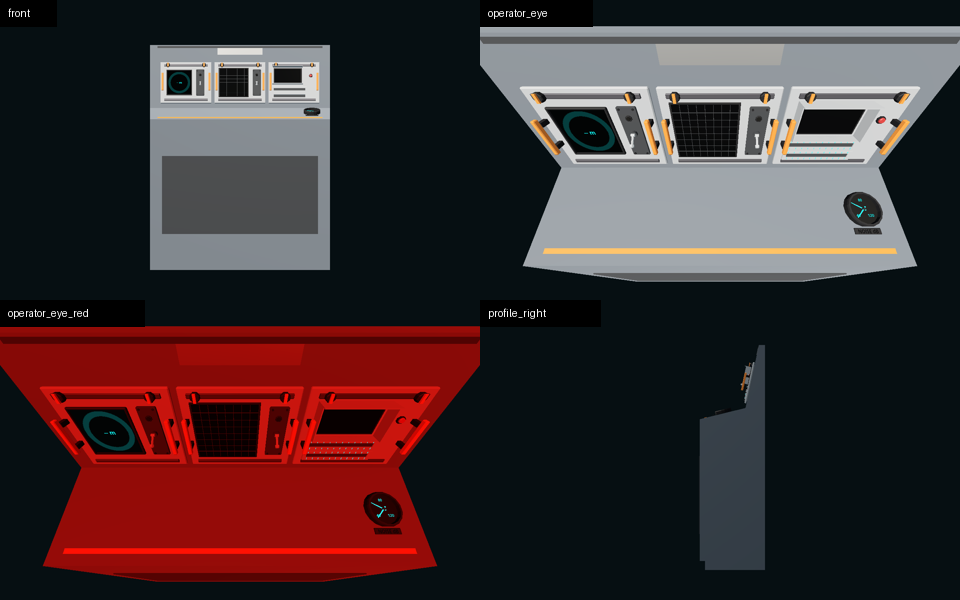
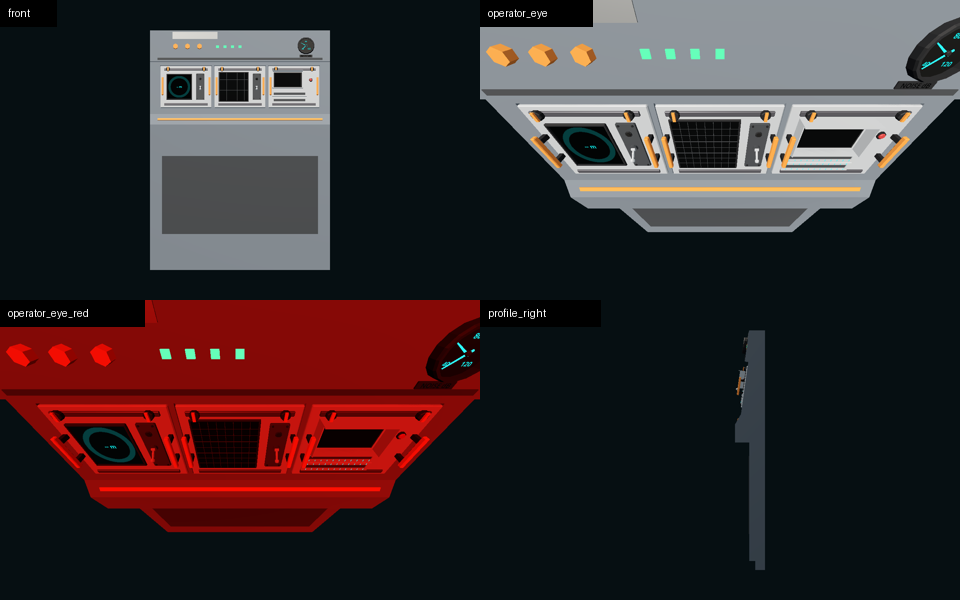
M16.5 · science_bay look round 2: shallower stepped housing, upper panel, slotted modules, Refs #625

diff --git a/tools/cadkit/scenes/science_bay.py b/tools/cadkit/scenes/science_bay.py
@@ -1,11 +1,13 @@
 """science_bay: the science station's panel (a row of three module bays). Brief: assets/models/stations/science_bay/brief.yaml.
 
-A long low housing against the starboard hull: a kick-plinthed pedestal, a sloped hand ledge, and above the ledge a face
-raked back by RAKE_DEG so every screen faces up toward the standing eye. Three bay recesses are cut into the raked face
-at a 360 mm pitch, each a dark pocket that reads on its own when empty. A module scene (the default fit: SCAN, SWEEP,
+A long low housing against the starboard hull: a shallow kick-plinthed pedestal, a proud ledge band, a recessed module panel
+raked back by RAKE_DEG so every screen faces up toward the standing eye, and a proud upper panel. Three bays are cut into
+the module panel at a 360 mm pitch, each a stepped dark pocket (the plate seats in a step with 3 mm of gap all round, the
+rear mount in a slot behind it) that reads on its own when empty. A module scene (the default fit: SCAN, SWEEP,
 CAMERA) is set in each, its back 2 mm off the pocket floor (the mount rule); PROBE, or any of the four in any bay, fits the
 same way, because every module is the shared `science_module_frame` chassis (340 x 280 mm, plate overlapping the opening).
-Above the row: the SCIENCE BAY plate and a running strip. On the ledge: an orange trim and the shared noise repeater.
+Upper panel: the SCIENCE BAY plate, a running strip, decorative (unwired) knobs and lamps (local solids), and the shared noise
+repeater. On the ledge: an orange trim.
 
 Local solids (static, used once): the housing with its pockets, pocket liners, the plate, the strip, the ledge trim.
 Everything else is a catalogue scene. No scripts: `OperatorPoint` and `OperatorEye` are markers for the placement arc,
@@ -21,7 +23,7 @@ import build123d as bd
 import numpy as np
 
 from cadkit import mount
-from cadkit.solids import Solid, at, box, expect, expect_in_front, export_solids_glb
+from cadkit.solids import Solid, at, box, prism, expect, expect_in_front, export_solids_glb
 from cadkit.library import entry, note, out_dir, res, scene_path, write_entry
 from cadkit.tscn import Scene, Xform
 
@@ -41,27 +43,35 @@ FLOOR_Y = -1100.0                               # the floor, in the station fram
 WAIST_Y = FLOOR_Y + 1000.0                      # about 1.0 m above the floor
 FACE_MAX_DEG = 60.0                             # a screen may face the eye within this angle
 
-# The housing: a polygon in (Y, Z) extruded along X. Its upper face is raked back RAKE_DEG; the ledge slopes down to the lip.
+# The housing: a polygon in (Y, Z) extruded along X, shaped like the life-support station. Bottom to top: a shallow kick and
+# pedestal; a proud ledge band (the lower panel); the module panel, recessed and raked back RAKE_DEG; and a proud upper panel.
 HOUSING_W = 1200.0
-RAKE_DEG = 12.0
-FACE_BASE = np.array([-20.0, 130.0])            # (y, z) where the ledge meets the raked face
-FACE_LEN = 430.0                                # the raked face, along its slope
-LIP = np.array([-95.0, 436.0])                  # the ledge's front edge
-KICK_Y, KICK_Z, BODY_FRONT_Z = -1040.0, 400.0, 436.0   # the plinth's inset, then the pedestal's front
+RAKE_DEG = 8.0
+KICK_Y, KICK_Z = -1040.0, 65.0                  # the plinth's inset
+PED_Z, PED_TOP_Y = 105.0, -250.0                # the pedestal's front: shallower than the module panel
+LIP = np.array([-130.0, 200.0])                 # the ledge band's top front edge (y, z)
+FACE_BASE = np.array([-60.0, 160.0])            # (y, z) where the ledge meets the module panel's face
+MOD_LEN = 350.0                                 # the module panel, along its slope
+REVEAL = 24.0                                   # the upper panel stands this far proud of the module panel
+UP_LEN = 560.0                                  # the upper panel's top, along the slope from the module panel's base
 
-# Bays.
+# Bays: a wide shallow step takes the module plate (3 mm of gap all round), a slot behind it takes the rear mount.
 PITCH = 360.0
 BAY_X = (-PITCH, 0.0, PITCH)
-OPEN_W, OPEN_H = 324.0, 264.0                   # a pocket's opening: the module body (312 x 252) slides in, the plate (340 x 280) overlaps it
-POCKET_D = 44.0                                 # the frame's BODY_D
-BAY_S = 170.0                                   # the pocket's centre, along the raked face from its base
+STEP_W, STEP_H, STEP_D = 346.0, 286.0, 8.0      # the plate (340 x 280) seats in this step
+OPEN_W, OPEN_H = 324.0, 264.0                   # the slot: the module body (312 x 252) slides in
+POCKET_D = 52.0                                 # step + the frame's BODY_D (44) behind the plate
+BAY_S = 182.0                                   # the bays' centre, along the module panel from its base
 LINER_T = 1.0
 
-# Face furniture, along the raked face (s) and the ledge (v from the lip).
-PLATE_S, PLATE_W, PLATE_H = 385.0, 300.0, 46.0
-STRIP_S, STRIP_W, STRIP_H = 415.0, 1100.0, 14.0
+# Face furniture on the upper panel (s along the slope from the module panel's base, x along the hull).
+PLATE_S, PLATE_X, PLATE_W, PLATE_H = 525.0, -300.0, 300.0, 46.0
+STRIP_S, STRIP_W, STRIP_H = 368.0, 1100.0, 14.0
 TRIM_V, TRIM_W, TRIM_H = 40.0, 1100.0, 16.0
-GAUGE_R, GAUGE_X, GAUGE_V = 0.05, 480.0, 165.0
+GAUGE_R, GAUGE_X, GAUGE_S = 0.05, 440.0, 455.0
+DECOR_S = 450.0                                 # decorative, unwired controls (local solids: the triangle budget is tight)
+KNOB_X, KNOB_R, KNOB_H = (-430.0, -350.0, -270.0), 18.0, 22.0
+LAMP_X, LAMP_W = (-150.0, -100.0, -50.0, 0.0), 18.0
 
 _RAKE = math.radians(RAKE_DEG)
 _X = np.array([1.0, 0.0, 0.0])
@@ -89,8 +99,12 @@ def on_ledge(v: float, out: float = 0.0, x: float = 0.0) -> np.ndarray:
     return LIP_ORIGIN + _X * x + LEDGE_T * v + LEDGE_N * out
 
 
+def on_upper(s: float, out: float = 0.0, x: float = 0.0) -> np.ndarray:
+    return on_face(s, REVEAL + out, x)
+
+
 def housing_top() -> np.ndarray:
-    return on_face(FACE_LEN)
+    return on_face(UP_LEN, REVEAL)
 
 
 class Item:
@@ -144,41 +158,53 @@ def items() -> list[Item]:
     behind = (entry("gauge").get("depth_mm") or {"behind_origin": 0.0})["behind_origin"]
     front = (entry("gauge").get("depth_mm") or {"in_front_of_origin": entry("gauge")["stand_out_mm"]})["in_front_of_origin"]
     off = mount.stand_off(behind)
-    out.append(Item("NoiseGauge", "gauge", NOISE_GAUGE_SCENE, on_ledge(GAUGE_V, off, GAUGE_X), LEDGE_BASIS,
+    out.append(Item("NoiseGauge", "gauge", NOISE_GAUGE_SCENE, on_upper(GAUGE_S, off, GAUGE_X), FACE_BASIS,
                     (-ge["bezel"] * r, -ge["plate_bottom"] * r, -behind, ge["bezel"] * r, ge["bezel"] * r, front), off,
-                    "ledge top", "ledge", radius=GAUGE_R))
+                    "upper panel", "upper", radius=GAUGE_R))
     return out
 
 
-def _pocket_cutter(x: float) -> bd.Shape:
-    """The opening's box, from POCKET_D below the raked face to a little above it, laid on the face."""
+def _pocket_cutters(x: float) -> list[bd.Shape]:
+    """The bay's two cuts: the slot (down to POCKET_D) and the wider step for the plate (down to STEP_D), laid on the face."""
     p = on_face(BAY_S, -POCKET_D, x)
-    return at(box(OPEN_W, OPEN_H, POCKET_D + 30.0), p[0], p[1], p[2], rx=FACE_RX)
+    q = on_face(BAY_S, -STEP_D, x)
+    return [at(box(OPEN_W, OPEN_H, POCKET_D + 30.0), p[0], p[1], p[2], rx=FACE_RX),
+            at(box(STEP_W, STEP_H, STEP_D + 30.0), q[0], q[1], q[2], rx=FACE_RX)]
 
 
 def solids() -> list[Solid]:
     top = housing_top()
+    pts = [(FLOOR_Y, 0.0), (FLOOR_Y, KICK_Z), (KICK_Y, KICK_Z), (KICK_Y, PED_Z), (PED_TOP_Y, PED_Z), (PED_TOP_Y, LIP[1]),
+           (LIP[0], LIP[1]), (FACE_BASE[0], FACE_BASE[1]), tuple(on_face(MOD_LEN)[1:]), tuple(on_face(MOD_LEN, REVEAL)[1:]),
+           (top[1], top[2]), (top[1], 0.0)]
     with bd.BuildPart() as b:
         with bd.BuildSketch(bd.Plane.YZ):
-            bd.Polygon((FLOOR_Y, 0.0), (FLOOR_Y, KICK_Z), (KICK_Y, KICK_Z), (KICK_Y, BODY_FRONT_Z), (LIP[0], LIP[1]),
-                       (FACE_BASE[0], FACE_BASE[1]), (top[1], top[2]), (top[1], 0.0), align=None)
+            bd.Polygon(*pts, align=None)
         bd.extrude(amount=HOUSING_W)
     housing = at(b.part, x=-HOUSING_W / 2)
     for x in BAY_X:
-        housing = housing - _pocket_cutter(x)
+        for c in _pocket_cutters(x):
+            housing = housing - c
     liners = []
     for x in BAY_X:
         p = on_face(BAY_S, -POCKET_D + 0.5, x)
         liners.append(at(box(OPEN_W - 2.0, OPEN_H - 2.0, LINER_T), p[0], p[1], p[2], rx=FACE_RX))
-    pl = on_face(PLATE_S, 0.0)
+    pl = on_upper(PLATE_S, 0.0, PLATE_X)
     plate = at(box(PLATE_W, PLATE_H, 2.5), pl[0], pl[1], pl[2], rx=FACE_RX)
-    st = on_face(STRIP_S, 0.0)
+    st = on_upper(STRIP_S, 0.0)
     strip = at(box(STRIP_W, STRIP_H, 3.0), st[0], st[1], st[2], rx=FACE_RX)
     tr = on_ledge(TRIM_V, 0.0)
     trim = at(box(TRIM_W, TRIM_H, 3.0), tr[0], tr[1], tr[2], rx=LEDGE_RX)
-    inset = at(box(1040.0, 520.0, 4.0), 0.0, -600.0, BODY_FRONT_Z)           # a recessed dark panel on the pedestal's front
+    inset = at(box(1040.0, 520.0, 4.0), 0.0, -600.0, PED_Z)                  # a dark panel on the pedestal's front
+    decor = []
+    for x in KNOB_X:
+        k = on_upper(DECOR_S, 0.0, x)
+        decor.append(Solid(at(prism(6, KNOB_R, KNOB_H), k[0], k[1], k[2], rx=FACE_RX), "control_interface"))
+    for x in LAMP_X:
+        k = on_upper(DECOR_S, 0.0, x)
+        decor.append(Solid(at(box(LAMP_W, LAMP_W, 5.0), k[0], k[1], k[2], rx=FACE_RX), "indicator_ok"))
     parts = ([Solid(housing, "interior_panel"), Solid(inset, "interior_dark")] + [Solid(s, "interior_dark") for s in liners]
-             + [Solid(plate, "label_plate"), Solid(strip, "interior_dark"), Solid(trim, "control_interface")])
+             + [Solid(plate, "label_plate"), Solid(strip, "interior_dark"), Solid(trim, "control_interface")] + decor)
     expect_in_front(parts, SLUG)
     return parts
 
@@ -223,15 +249,24 @@ def checks(its: list[Item], parts: list[Solid]) -> dict:
     # The bays: pocket against the module frame, and against each other.
     fw, fh = frame["footprint_mm"]
     body_w, body_h = 312.0, 252.0     # the frame's rear mount (science_module_frame.py BODY_W, BODY_H); the plate is the footprint
-    expect(body_w < OPEN_W < fw, f"pocket opening {OPEN_W:.0f} mm takes the {body_w:.0f} mm rear mount and the {fw:.0f} mm plate overlaps it")
-    expect(body_h < OPEN_H < fh, f"pocket opening {OPEN_H:.0f} mm tall takes the {body_h:.0f} mm rear mount and the {fh:.0f} mm plate overlaps it")
-    expect(POCKET_D >= 44.0, "pocket as deep as the frame's rear mount (44 mm)")
+    expect(body_w < OPEN_W < fw, f"slot {OPEN_W:.0f} mm takes the {body_w:.0f} mm rear mount; the {fw:.0f} mm plate is wider")
+    expect(body_h < OPEN_H < fh, f"slot {OPEN_H:.0f} mm tall takes the {body_h:.0f} mm rear mount; the {fh:.0f} mm plate is taller")
+    expect(1.0 <= (STEP_W - fw) / 2 <= 4.0 and 1.0 <= (STEP_H - fh) / 2 <= 4.0,
+           f"a narrow gap all round the plate in its step ({(STEP_W - fw) / 2:.1f} x {(STEP_H - fh) / 2:.1f} mm a side)")
+    expect(POCKET_D >= STEP_D + 44.0, "bay as deep as the step plus the frame's rear mount (44 mm)")
+    expect(mount.stand_off(0.0) + 44.0 <= POCKET_D, "the module's rear mount lies inside the bay")
     expect(PITCH - fw >= 10.0, f"neighbouring plates at least 10 mm apart ({PITCH - fw:.0f})")
     expect(BAY_X[-1] + fw / 2 <= HOUSING_W / 2 - 40.0, "end bays leave a 40 mm cheek of housing")
     top = housing_top()
-    pocket_hi = BAY_S + OPEN_H / 2
-    expect(pocket_hi <= FACE_LEN - 20.0, "the pockets stop 20 mm short of the top of the face")
+    pocket_hi = BAY_S + STEP_H / 2
+    expect(pocket_hi <= MOD_LEN - 20.0, "the bays stop 20 mm short of the top of the module panel")
+    expect(BAY_S - STEP_H / 2 >= 20.0, "the bays start 20 mm above the ledge")
     back_y, back_z = on_face(pocket_hi, -POCKET_D)[1:]
+    depths = [float(on_face(s_)[2]) for s_ in (0.0, MOD_LEN)]
+    expect(min(depths) >= 100.0 and max(depths) <= 160.0 + 0.01, f"module panel {min(depths):.0f}..{max(depths):.0f} mm deep (a thick section)")
+    expect(PED_Z < min(depths), f"the lower section ({PED_Z:.0f} mm) is shallower than the module panel ({min(depths):.0f} mm)")
+    expect(REVEAL >= 15.0, "the upper panel stands proud of the module panel")
+    expect(LIP[1] > min(depths), "the ledge band stands proud of the module panel")
     expect(back_z >= 10.0, f"the pocket's back stays 10 mm in front of the hull face (Z {back_z:.1f})")
 
     # Every module type, in every bay: size, waist-to-eye band, ledge clearance, reach.
@@ -258,10 +293,16 @@ def checks(its: list[Item], parts: list[Solid]) -> dict:
     reach["NoiseGauge"] = round(dg, 1)
     expect(dg <= REACH, f"the noise repeater within reach {REACH:.0f} mm of the shoulder ({dg:.0f})")
 
-    # The repeater sits on the ledge: along it, inside the housing, above it, clear of the pocket row.
-    vs = [float(LEDGE_T @ (c - LIP_ORIGIN)) for c in g.corners()]
-    expect(min(vs) >= 15.0 and max(vs) <= LEDGE_LEN - 15.0, f"the repeater lies on the ledge ({min(vs):.0f}..{max(vs):.0f} of {LEDGE_LEN:.0f})")
-    expect(abs(g.corners()[:, 0]).max() <= HOUSING_W / 2 - 20.0, "the repeater inside the housing's width")
+    # The repeater and the decorative controls sit on the upper panel: above the module panel, below its top, inside its width.
+    for it in its:
+        if it.plane != "upper":
+            continue
+        ss = [float(FACE_T @ (c - FACE_ORIGIN)) for c in it.corners()]
+        expect(min(ss) >= MOD_LEN + 10.0 and max(ss) <= UP_LEN - 10.0, f"{it.name} on the upper panel ({min(ss):.0f}..{max(ss):.0f}, panel {MOD_LEN:.0f}..{UP_LEN:.0f})")
+        expect(abs(it.corners()[:, 0]).max() <= HOUSING_W / 2 - 20.0, f"{it.name} inside the housing's width")
+    for lo_s, hi_s, what in ((PLATE_S - PLATE_H / 2, PLATE_S + PLATE_H / 2, "plate"), (STRIP_S - STRIP_H / 2, STRIP_S + STRIP_H / 2, "strip"),
+                             (DECOR_S - KNOB_R, DECOR_S + KNOB_R, "decorative controls")):
+        expect(MOD_LEN + 5.0 <= lo_s and hi_s <= UP_LEN - 5.0, f"the {what} lies on the upper panel")
 
     # Grab boxes apart: neighbouring modules and the repeater, 10 mm or more (axis-aligned boxes in the station frame).
     boxes = {i.name: i.aabb for i in its}
@@ -327,8 +368,8 @@ def build() -> dict:
     figs["triangles_heaviest_fit"] = worst
     write_entry(GROUP, SLUG, {
         "kind": "panel",
-        "summary": "Science bay: a long low raked housing with three module bays at chest height over a sloped hand ledge, "
-                   "a SCIENCE BAY plate and running strip above, the shared noise repeater on the ledge. Each bay is an "
+        "summary": "Science bay: a shallow housing with three module bays in a recessed, raked panel at chest height over a ledge band, "
+                   "a SCIENCE BAY plate and running strip above, the shared noise repeater and decorative controls on a proud upper panel. Each bay is an "
                    "anchor (Bay0..Bay2) whose child `Module` is a module scene (default SCAN, SWEEP, CAMERA); any of the "
                    "four module scenes fits any bay, and an empty bay is a dark pocket.",
         "tags": ["panel", "station", "science", "bay", "module", "scan", "sweep", "probe", "camera", "ledge", "standing"],
@@ -338,7 +379,7 @@ def build() -> dict:
                     "fit replace that child with another module scene (any of the four fits any bay)",
             "operator": "no script on the panel: the placement arc wraps it in ScienceStation (as the map table is wrapped) "
                         "with OperatorPoint (feet) and OperatorEye (the standing eye, 0.5 m out, 0.55 m above the centre)",
-            "noise": "NoiseGauge (acoustics_readouts) on the ledge"}},
+            "noise": "NoiseGauge (acoustics_readouts) on the upper panel"}},
         "footprint_mm": [figs["along_hull_mm"], figs["deep_mm"]],
         "stand_out_mm": figs["deep_mm"],
         "mount": "back on Z=0 against the starboard hull (X along the hull, Z out into the aisle); the station's centre stands "
